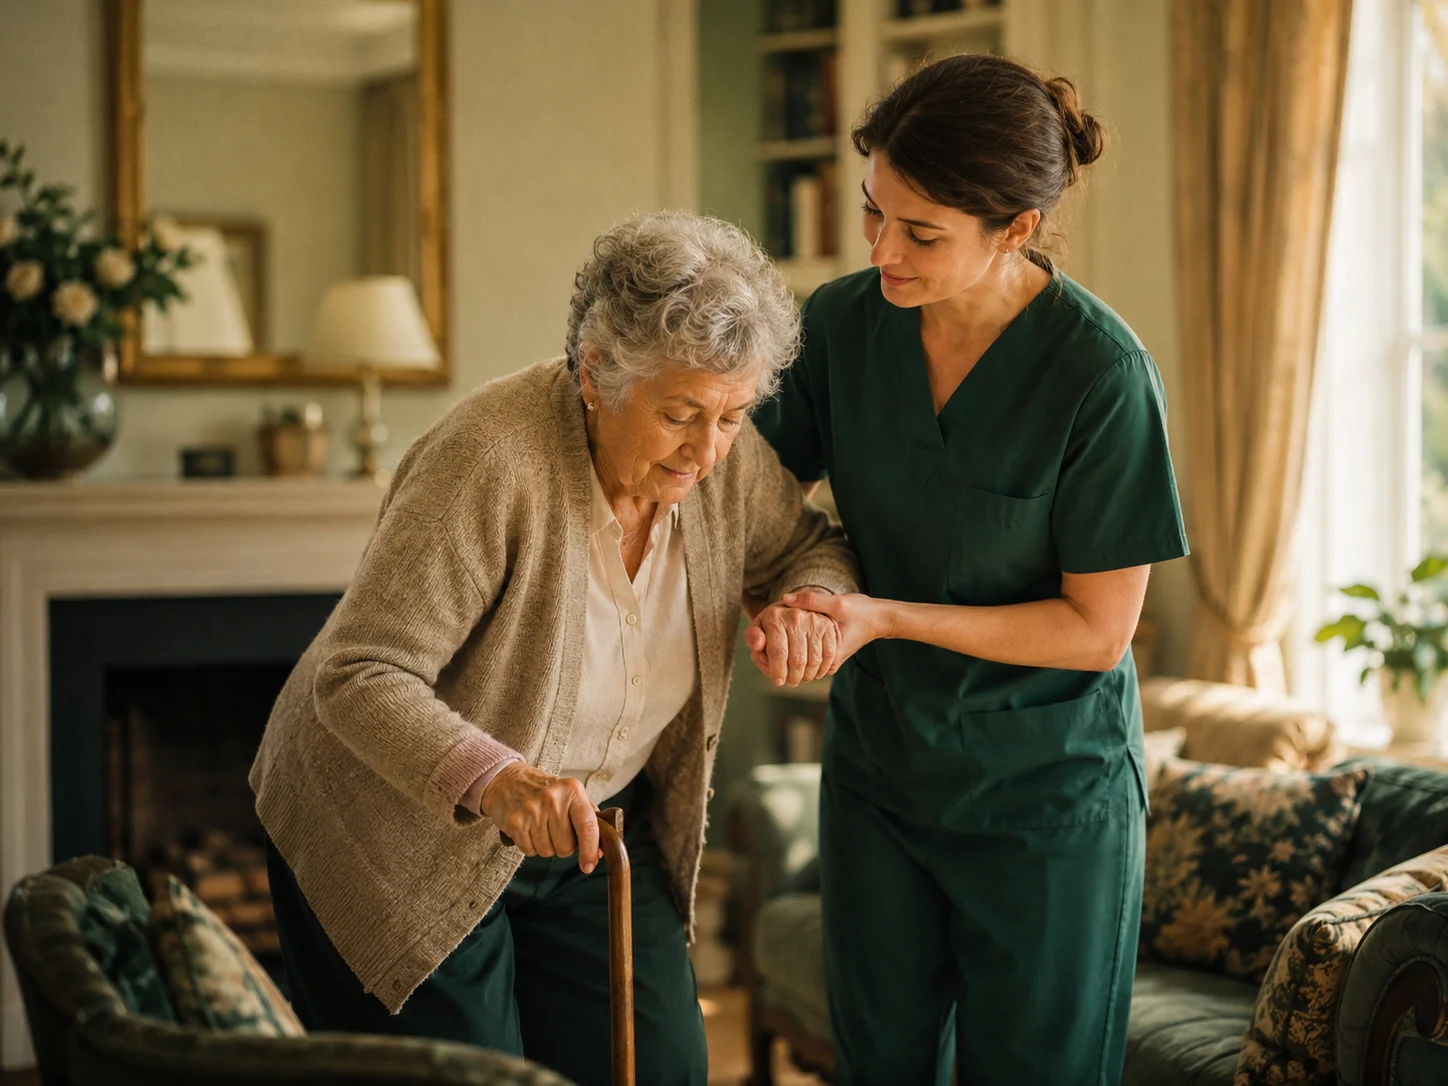
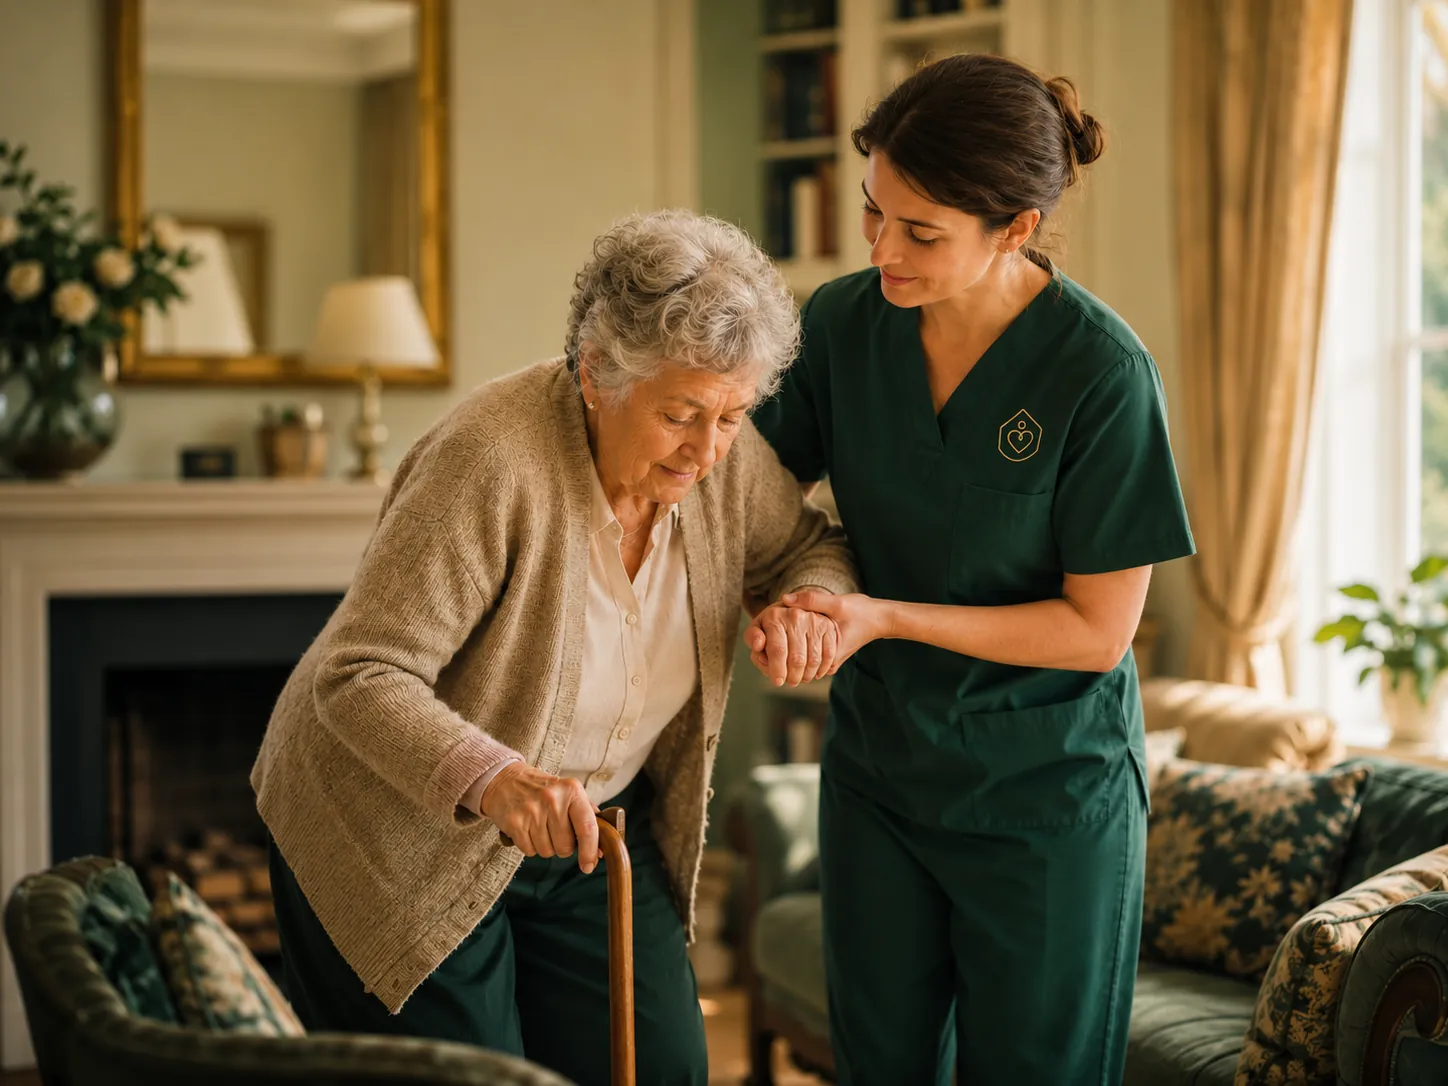
Novy obrazek osobni (Osobni pece) na uvodni strane jako WebP s ?v=2 kvuli trvale mezipameti

diff --git a/app.js b/app.js
@@ -1437,12 +1437,14 @@ function initTheme(){applyTheme('dark');}
 /* ---------- HOME RENDER ---------- */
 /* mapování id služby → název obrázku (kde se liší) */
 const SVC_IMG={lekar:'doktor',domaci:'domacipece',pomoc:'pomocvdomacnosti',rehab:'Rehabilitace'};
+/* verze obrázku dlaždice — zvýšit při výměně obrázku (obrázky se cachují natrvalo) */
+const SVC_IMG_V={osobni:2};
 /* hlavních 6 služeb na úvodní stránce */
 const MAIN_SERVICES=['osobni','lekar','domaci','nakupy','nocni','nemocnice'];
 function renderHome(){
   document.getElementById('servGrid').innerHTML=MAIN_SERVICES.map(id=>SERVICES.find(s=>s.id===id)).filter(Boolean).map(s=>
     `<article class="svc-card zv-svc">
-      <div class="zv-svc-img" style="background-image:url('${SVC_IMG[s.id]||s.id}.webp'),linear-gradient(135deg,#1F4A39,#0D2A20)"></div>
+      <div class="zv-svc-img" style="background-image:url('${SVC_IMG[s.id]||s.id}.webp${SVC_IMG_V[s.id]?'?v='+SVC_IMG_V[s.id]:''}'),linear-gradient(135deg,#1F4A39,#0D2A20)"></div>
       <h3>${esc(s.name)}</h3>
       <p>${esc(s.desc||'')}</p>
       <button class="zv-textlink" onclick="fillThen(this,()=>filterByService('${s.id}'))">Zobrazit pečovatelky</button>
